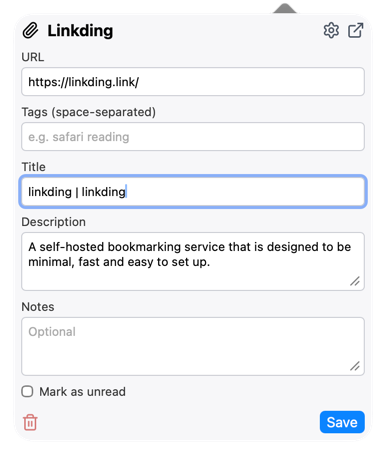
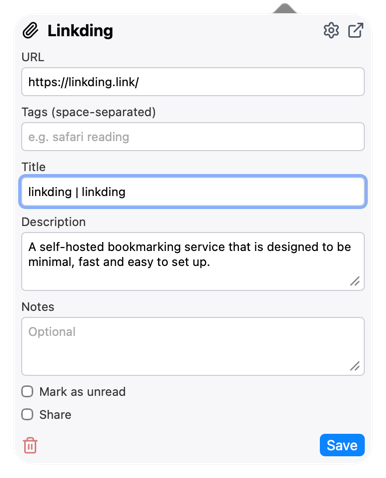
add options for default tags and shared bookmarks

diff --git a/Shared (App)/Resources/popup.js b/Shared (App)/Resources/popup.js
@@ -13,6 +13,7 @@ const urlInput = document.getElementById("url");
 const descriptionInput = document.getElementById("description");
 const notesInput = document.getElementById("notes");
 const unreadInput = document.getElementById("unread");
+const sharedInput = document.getElementById("shared");
 const tagsInput = document.getElementById("tags");
 const tagSuggestionsEl = document.getElementById("tagSuggestions");
 
@@ -88,6 +89,7 @@ function getPayloadFromForm() {
     description: descriptionInput.value.trim(),
     notes: notesInput.value.trim(),
     unread: unreadInput.checked,
+    shared: sharedInput.checked,
     tag_names: parseTags(tagsInput.value),
   };
 }
@@ -132,6 +134,10 @@ function applyBookmarkToForm(bookmark) {
 
   if (typeof bookmark.unread === "boolean") {
     unreadInput.checked = bookmark.unread;
+  }
+
+  if (typeof bookmark.shared === "boolean") {
+    sharedInput.checked = bookmark.shared;
   }
 
   const tags = extractBookmarkTags(bookmark);
@@ -496,6 +502,11 @@ notesInput.addEventListener("input", () => {
 unreadInput.addEventListener("change", () => {
   pendingDeleteConfirmation = false;
 });
+
+sharedInput.addEventListener("change", () => {
+  pendingDeleteConfirmation = false;
+});
+
 tagsInput.addEventListener("input", () => {
   renderTagSuggestions();
 });
@@ -585,7 +596,7 @@ function focusPrimaryInput() {
 
 async function initialize() {
   resetDuplicateState();
-  const stored = await storageGet(["baseUrl", "apiToken", "unreadDefault"]);
+  const stored = await storageGet(["baseUrl", "apiToken", "tags", "unreadDefault", "sharedDefault"]);
 
   if (!stored.baseUrl || !stored.apiToken) {
     setStatus("Please set Linkding URL and API token in Settings.", "error");
@@ -595,7 +606,9 @@ async function initialize() {
     const tab = await getActiveTab();
     titleInput.value = tab.title || "";
     urlInput.value = tab.url || "";
+	tagsInput.value = stored.tags || "";
 	unreadInput.checked = stored.unreadDefault;
+	sharedInput.checked = stored.sharedDefault;
 
     const pageDescription = await getPageDescription(tab.id);
     if (pageDescription && !descriptionInput.value.trim()) {
@@ -621,7 +634,11 @@ async function initialize() {
 }
 
 openSettingsButton.addEventListener("click", () => {
-  window.open("options.html", "_blank", "noreferrer");
+  const width = 500;
+  const height = 450;
+  const x = screen.width/2 - width/2;
+  const y = screen.height/2 - height/2;
+  window.open("options.html", "optionsWindow", `popup,noreferrer,left=${x},top=${y},width=${width},height=${height}`);
 });
 
 openInstanceButton.addEventListener("click", async () => {

diff --git a/Shared (App)/Resources/options.js b/Shared (App)/Resources/options.js
@@ -3,7 +3,9 @@ const browserApi = globalThis.browser ?? globalThis.chrome;
 const form = document.getElementById("options-form");
 const baseUrlInput = document.getElementById("baseUrl");
 const apiTokenInput = document.getElementById("apiToken");
+const tagsInput = document.getElementById("tags");
 const unreadDefaultInput = document.getElementById("unreadDefault");
+const sharedDefaultInput = document.getElementById("sharedDefault");
 const autoCloseInput = document.getElementById("autoCloseOnSuccess");
 const statusEl = document.getElementById("status");
 
@@ -27,10 +29,12 @@ function normalizeBaseUrl(baseUrl) {
 }
 
 async function initialize() {
-  const stored = await storageGet(["baseUrl", "apiToken", "unreadDefault", "autoCloseOnSuccess"]);
+  const stored = await storageGet(["baseUrl", "apiToken", "tags", "unreadDefault", "sharedDefault", "autoCloseOnSuccess"]);
   baseUrlInput.value = stored.baseUrl || "";
   apiTokenInput.value = stored.apiToken || "";
+  tagsInput.value = stored.tags || "";
   unreadDefault.checked = Boolean(stored.unreadDefault);
+  sharedDefault.checked = Boolean(stored.sharedDefault);
   autoCloseInput.checked = Boolean(stored.autoCloseOnSuccess);
 }
 
@@ -39,7 +43,9 @@ form.addEventListener("submit", async (event) => {
 
   const baseUrl = normalizeBaseUrl(baseUrlInput.value.trim());
   const apiToken = apiTokenInput.value.trim();
+  const tags = tagsInput.value.trim();
   const unreadDefault = unreadDefaultInput.checked;
+  const sharedDefault = sharedDefaultInput.checked;
   const autoCloseOnSuccess = autoCloseInput.checked;
 
   if (!baseUrl || !apiToken) {
@@ -47,7 +53,7 @@ form.addEventListener("submit", async (event) => {
     return;
   }
 
-  await storageSet({ baseUrl, apiToken, unreadDefault, autoCloseOnSuccess });
+  await storageSet({ baseUrl, apiToken, tags, unreadDefault, sharedDefault, autoCloseOnSuccess });
   setStatus("✅ Settings saved.", "success");
 });
 

diff --git a/Shared (App)/Resources/options.html b/Shared (App)/Resources/options.html
@@ -21,9 +21,19 @@
           <input id="apiToken" type="password" placeholder="Token" required />
         </label>
 
+        <label>
+          Default Tags
+          <input id="tags" type="text" placeholder="" />
+        </label>
+
         <label class="checkbox-row">
           <input id="unreadDefault" type="checkbox" />
           Pre-select unread when adding bookmark
+        </label>
+
+        <label class="checkbox-row">
+          <input id="sharedDefault" type="checkbox" />
+          Pre-select share when adding bookmark
         </label>
 
         <label class="checkbox-row">
@@ -31,10 +41,12 @@
           Automatically close popup after successful save
         </label>
 
-        <button type="submit">Save settings</button>
+        <div class="actions">
+          <button type="submit">Save settings</button>
+          <div id="status" role="status" aria-live="polite"></div>
+        </div>
       </form>
 
-      <p id="status" role="status" aria-live="polite"></p>
     </main>
 
     <script src="options.js"></script>

diff --git a/Shared (App)/Resources/popup.html b/Shared (App)/Resources/popup.html
@@ -58,6 +58,11 @@
           Mark as unread
         </label>
 
+        <label class="checkbox-row">
+          <input id="shared" type="checkbox" />
+          Share
+        </label>
+
         <div class="actions">
           <button id="deleteBookmark" type="button" class="icon-button danger" title="Delete bookmark" disabled>
             <svg xmlns="http://www.w3.org/2000/svg" width="18" height="18" viewBox="0 0 24 24" fill="none" stroke="currentColor" stroke-width="2" stroke-linecap="round" stroke-linejoin="round"><path d="M10 11v6"/><path d="M14 11v6"/><path d="M19 6v14a2 2 0 0 1-2 2H7a2 2 0 0 1-2-2V6"/><path d="M3 6h18"/><path d="M8 6V4a2 2 0 0 1 2-2h4a2 2 0 0 1 2 2v2"/></svg>

diff --git a/Shared (App)/Resources/options.css b/Shared (App)/Resources/options.css
@@ -11,7 +11,7 @@ body {
 
 main {
   max-width: 620px;
-  margin: 24px auto;
+  margin: 12px auto;
   padding: 0 16px;
 }
 
@@ -57,10 +57,17 @@ button {
   width: fit-content;
   border: none;
   border-radius: 6px;
+  font-size: 14px;
   padding: 8px 14px;
   background: #0a84ff;
   color: #fff;
   cursor: pointer;
+}
+
+.actions {
+  display: flex;
+  justify-content: space-between;
+  align-items: center;
 }
 
 #status {

diff --git a/README.md b/README.md
@@ -10,6 +10,7 @@ A Safari Web Extension to quickly save the current page to your [Linkding](https
   - description (auto-filled from page meta tags)
   - notes
   - mark as unread
+  - shared
   - tags
 - Automatic description extraction from the active page (fallback order):
   - `meta[name="description"]`
@@ -29,6 +30,9 @@ A Safari Web Extension to quickly save the current page to your [Linkding](https
 - Options page for:
   - Linkding base URL
   - API token
+  - default tags
+  - unread
+  - shared
   - optional auto-close on successful save
 - Keyboard shortcut to save current page directly:
   - macOS: `⌘ + ⇧ + L`
